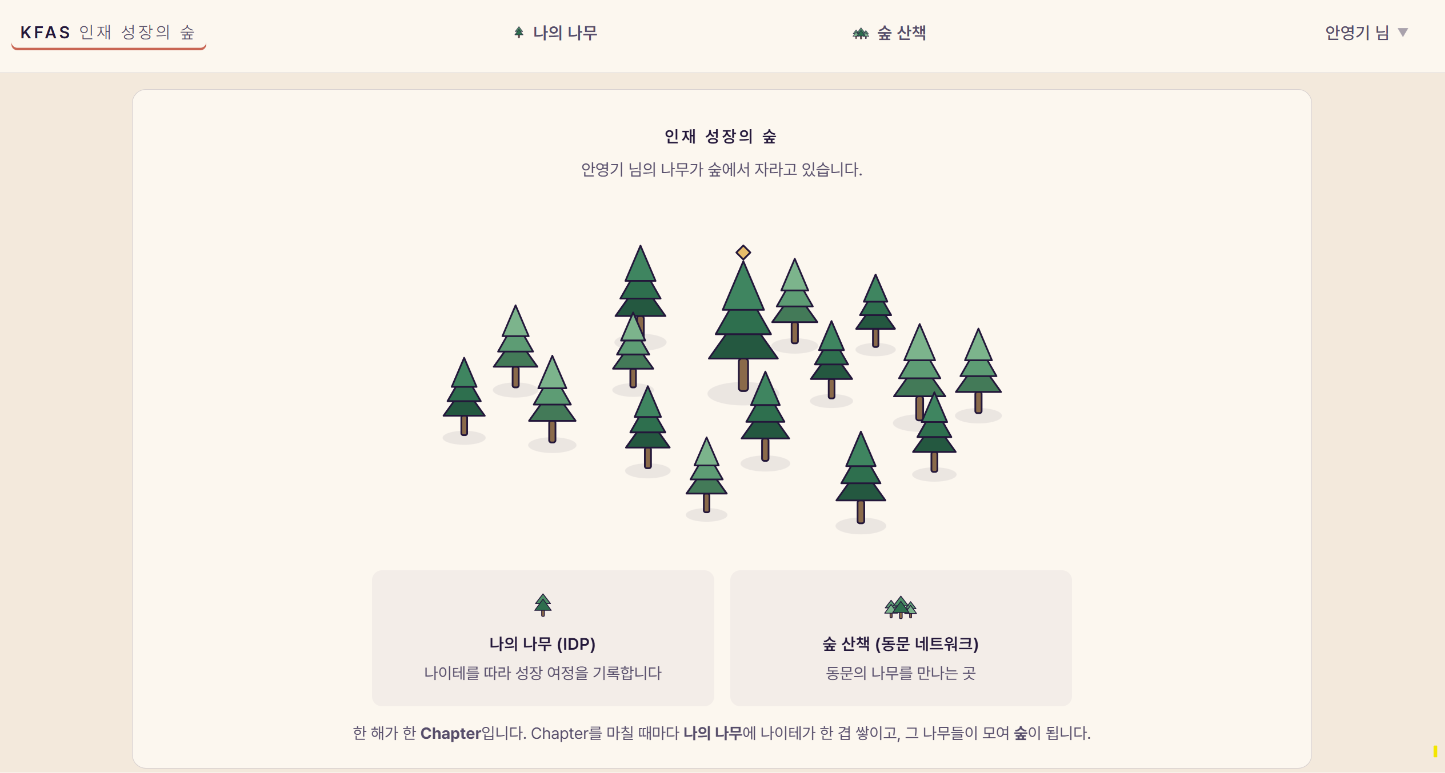
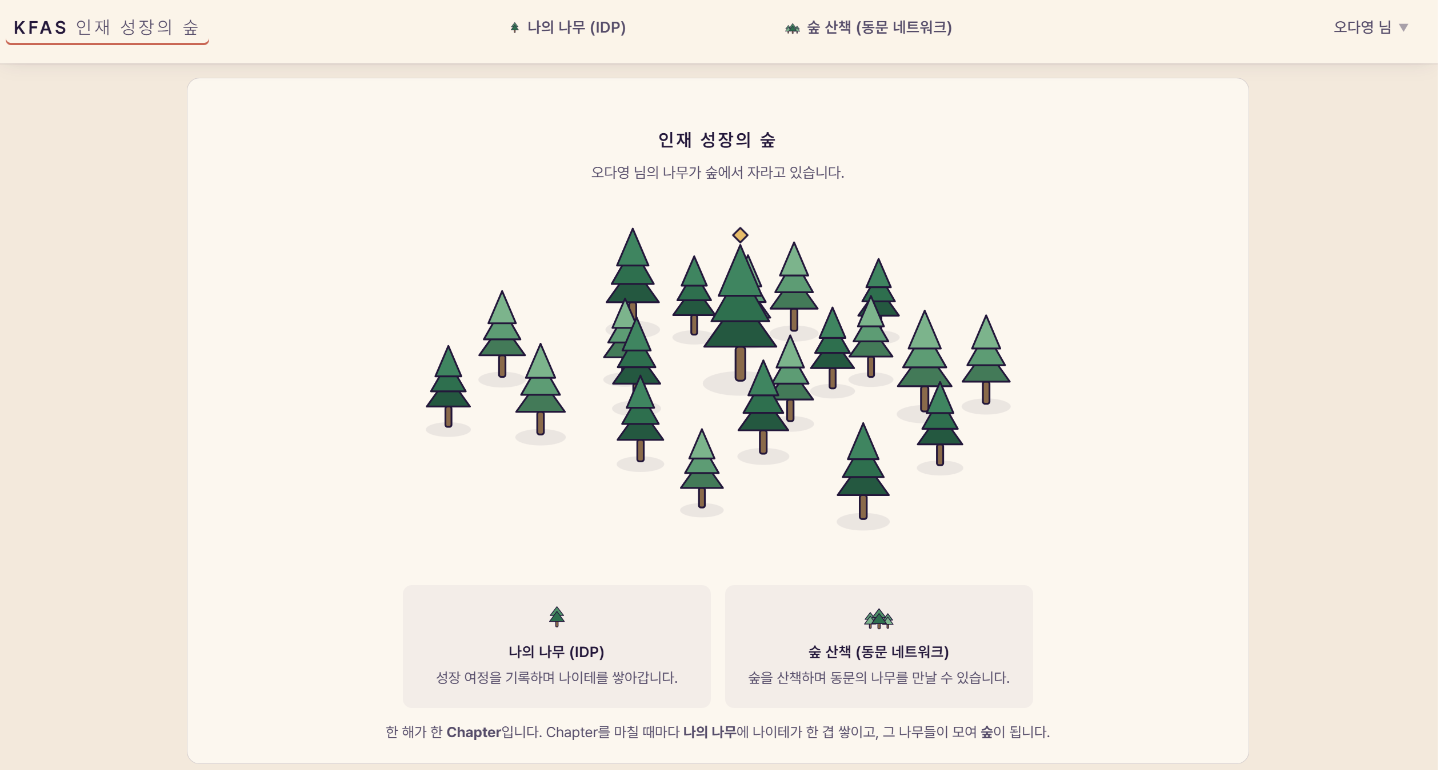
Replace platform home screenshot with the current screen

diff --git a/index.html b/index.html
@@ -3384,8 +3384,8 @@ sheet.append_row(data)</code></div>
 
     <div class="ann">
       <a class="shot-l" draggable="false" href="photos/tlab-home-forest.png" target="_blank" rel="noopener noreferrer">
-        <img class="shot" draggable="false" src="photos/tlab-home-forest.png" width="1445" height="773" loading="lazy"
-          alt="플랫폼 첫 화면입니다. 인재 성장의 숲이라는 제목 아래 크고 작은 나무 여러 그루가 모여 숲을 이루고 있고 그 아래 나의 나무(IDP)와 숲 산책(동문 네트워크) 두 입구가 나란히 놓여 있습니다. 맨 아래에 한 해가 한 Chapter이고 Chapter를 마칠 때마다 나의 나무에 나이테가 한 겹 쌓이며 그 나무들이 모여 숲이 된다는 안내가 적혀 있습니다.">
+        <img class="shot" draggable="false" src="photos/tlab-home-forest.png" width="1438" height="770" loading="lazy"
+          alt="플랫폼 첫 화면입니다. 맨 위 메뉴에 KFAS 인재 성장의 숲·나의 나무(IDP)·숲 산책(동문 네트워크)이 있고, 인재 성장의 숲이라는 제목과 오다영 님의 나무가 숲에서 자라고 있다는 안내 아래 크고 작은 나무 여러 그루가 모여 숲을 이루고 있고 그 아래 나의 나무(IDP)와 숲 산책(동문 네트워크) 두 입구가 나란히 놓여 있습니다. 맨 아래에 한 해가 한 Chapter이고 Chapter를 마칠 때마다 나의 나무에 나이테가 한 겹 쌓이며 그 나무들이 모여 숲이 된다는 안내가 적혀 있습니다.">
       </a>
       <div class="ann-cap">플랫폼의 첫 화면입니다. ‘나의 나무(IDP)’와 ‘숲 산책(동문 네트워크)’이라는 두 개의 입구를 두고 개인의 나무가 모여 하나의 숲을 이룬다는 개념을 로그인 후 첫 화면에서 보여 줍니다.</div>
     </div>
